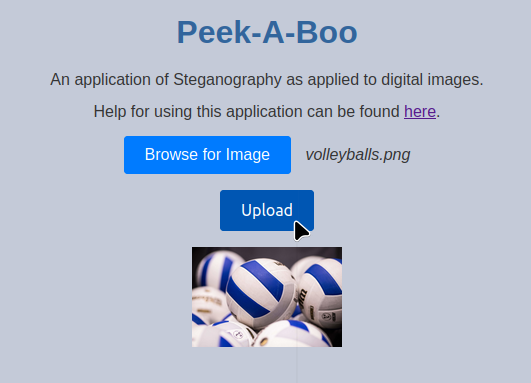
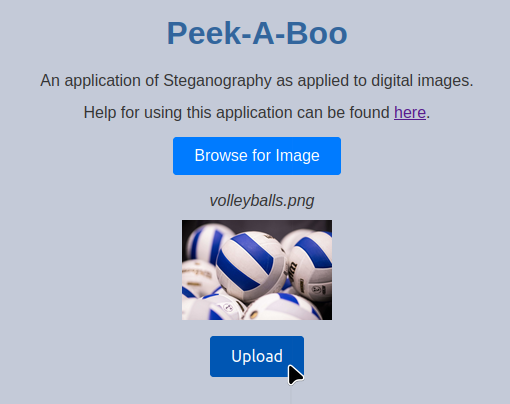
Added to help file. Done up to Uploading images.

Changed region(s): [[0.1471, 0.2585, 0.8529, 0.9478], [0.0882, 0.1723, 0.9412, 0.2298], [0.3235, 0.0574, 0.6765, 0.1149]]

diff --git a/static/peekaboo-help.html b/static/peekaboo-help.html
@@ -19,6 +19,8 @@
          <a href="#Introduction">Introduction</a>
          <a href="#Overview">Overview</a>
          <a href="#Uploading">Uploading</a>
+         <a href="#Uncoded Images"> - Uncoded Images</a>
+         <a href="#Coded Images"> - Coded Images</a>
          <a href="#Embedding">Embedding</a>
          <a href="#Extracting">Extracting</a>
          <a href="#About">About</a>
@@ -74,7 +76,7 @@
          the <i><b>"Browse for Image"</i></b> button.
          Note that any time that the "Browse for Image" button is displayed, it can be selected
          to reset the application to starting conditions, i.e. it can be used to abort
-         in-progress embed or extract work-flows. Note that it makes no difference if embedding
+         in-progress embed or extract workflows. Note that it makes no difference if embedding
          files into an already encodded image or one that has never been encoded.
          </p>
          <p class="images">
@@ -82,14 +84,68 @@
          </p>
          <p>On browsing to a vaid image file as described above, an <i><b>"Upload"</b></i> button
          will be presented to upload the image for analysis as illustrated below.
-         In the figure the name of the image file is shown alongside the <i><b>"Browse for Image"</b></i>
-         button, while a thumbnail of the image selected is shown below the
-         <i><b>"Upload"</b></i> button.
+         In the figure a thumbnail of the image selected is shown above the
+         <i><b>"Upload"</b></i> button along with the name of the file.
+         Note that <i>clicking</i> on the browsed image will open the image in a new browser window.
          </p>
          <p class="images">
             <img src="/static/help-pics/uploadControl.png" alt="Upload image for analysis.">
          </p>
-   
+         <p>Should other than a PNG file be selected a dialog will prompt the user to select
+         a PNG file and return so that the <i><b>"Browse for Image"</i></b> workflow can be
+         resumed.
+         </p>
+         <p>With the starting PNG image browsed to, the user can select the <i><b>"Upload"</b></i> button.
+         The <i><b>"Upload"</b></i> button uploads the image to the application where the image
+         analysed. Analysed here means determining if the image file is already embedded with
+         data, or is not know to be coded. The outcome of the analysis determines whether
+         embedding and/or extraction workflows can be performed.
+         </p>
+
+         <a id="Uncoded Images"></a>
+         <h3>Uncoded Images</h3>
+         <p>As the name suggests an uncoded image is a PNG image file that has not been coded
+         by the application, that is, it does not contain files that can be extracted.
+         Browsing to, and then uploading an uncoded image file will result in analysis showing that the
+         image is suitable to have files embeded into it as illustrated below.
+         </p>
+         <p class="images">
+            <img src="/static/help-pics/uncodedImage.png" alt="Uploaded image is uncoded.">
+         </p>
+         <p>In the example above of uploading an uncoded image we see a number of things, namely:
+            <ul>
+               <li>The image file is not coded.</li>
+               <li>As a result, the image file is not password protected.</li>
+               <li>The embedding capacity of the file is some 45+ MB.</li>
+            </ul>
+         </p>
+         <p>Being uncoded, it means that the image is suitable for embedding, hence only the
+         <i><b>"Embed"</b></i> button is available. Note also, the grey border around the analysis
+         results data indicating that the uploaded image is not coded.
+         </p>
+
+         <a id="Coded Images"></a>
+         <h3>Coded Images</h3>
+         <p>As the name suggests an coded image is a PNG image file that has been coded
+         by the application, that is, it ontains one or more files that can be extracted.
+         Browsing to, and then uploading a coded image file will result in analysis showing that the
+         image both contains data for extraction and is suitable to have files embeded into it as illustrated below.
+         </p>
+         <p class="images">
+            <img src="/static/help-pics/codedImage.png" alt="Uploaded image is coded.">
+         </p>
+         <p>In the example above of uploading a coded image we see a number of things, namely:
+            <ul>
+               <li>The image file is coded.</li>
+               <li>The image file in this case is password protected. Note that it needn't be.</li>
+               <li>The embedding capacity of the file is some 13+ MB.</li>
+            </ul>
+         </p>
+         <p>Being coded, it means that the image currently has embedded data, and is also suitable for embedding,
+         hence both the <i><b>"Embed"</b></i> and <i><b>"Extract"</b></i> buttons are available.
+         Note also, the green border around the analysis results data indicating that the uploaded image is coded.
+         </p>
+
          <a id="Embedding"></a>
          <h2>Embedding</h2>
          <p>While the file to host the embedded data is constrained to be a PNG image file,
@@ -103,7 +159,7 @@
          capacity of the image is:
          </p>
          <p class="eq">
-         (600 x 400)pixels x 3 colours/pixel x 1 byte/colour = 720,000 bytes
+         (600 x 400) pixels x 3 colours/pixel x 1 byte/colour = 720,000 bytes
          </p>
          <p>The embedding capacity will be less than that quoted above as some of the capacity
          is used up to store details of the embedded files, e.g. number of files, size of

diff --git a/static/index.html b/static/index.html
@@ -21,25 +21,20 @@
         <p style="text-align:center;">
             <label for="imageUpload" class="custom-upload">Browse for Image</label>
             <input type="file" id="imageUpload" accept="image/png" style="display: none;">
-            <span id="fileLabel"></span>
         </p>
-        <p class="button-group" style="text-align:center;">
+
+        <div id="thumbnailContainer" class="thumbnail-container" style="text-align:center;">
+            <img id="originalThumbnail" class="thumbnail" src="" alt="Browsed image thumbnail will appear here" style="display:none;">
+            <span id="fileLabel"></span>
+        </div>
+
+        </p>
+            <p class="button-group" style="text-align:center;">
             <button id="uploadButton" class="custom-upload" style="display: none;">Upload</button>
             <button id="embedButton" class="custom-upload" style="display: none;">Embed</button>
             <button id="extractButton" class="custom-upload" style="display: none;">Extract</button>
         </p>
     </div>
-
-    <p style="text-align:center;">
-        <img id="thumbnail" class="thumbnail" src="" alt="Browsed image thumbnail will appear here" style="display:none;">
-    </p>
-
-    <p style="text-align:center;">
-        <!-- Thumbnail Container -->
-        <div id="thumbnailContainer" class="thumbnail-container">
-            <img id="originalThumbnail" class="thumbnail" src="" alt="Browsed image thumbnail will appear here" style="display:none;">
-        </div>
-    </p>        
 
     <!-- Results Box for extracted files or processing results -->
     <div class="results-container">

diff --git a/static/index-scripts.js b/static/index-scripts.js
@@ -98,10 +98,17 @@ document.getElementById('imageUpload').addEventListener('change', function(event
                 uploadButton.style.display = 'block';
             }
             reader.readAsDataURL(file);
+
+            uploadButton.style.display = 'block';
+            fileLabel.textContent = file.name;
+            fileLabel.style.display = 'inline';
+            thumbnailContainer.style.display = 'block';
         } else {
             alert('Please select a PNG image.');
             console.log("Hiding upload button for invalid browsed image.");
             uploadButton.style.display = 'none';
+            fileLabel.style.display = 'none';
+            thumbnailContainer.style.display = 'none';
         }
     } else {
         fileLabel.textContent = 'No file selected';

diff --git a/static/index-styles.css b/static/index-styles.css
@@ -90,7 +90,7 @@ p {
 }
 
 .results-text.coded {
-    font-size: 0.8em;
+    font-size: 1.0em;
     font-style: italic;
     text-align: center;
     border: 4px solid rgb(0, 255, 0);
@@ -100,7 +100,7 @@ p {
 }
 
 .results-text.not-coded {
-    font-size: 0.8em;
+    font-size: 1.0em;
     font-style: italic;
     text-align: center;
     border: 2px solid rgb(99, 96, 96);

diff --git a/static/help-styles.css b/static/help-styles.css
@@ -123,7 +123,7 @@ h3 {
    max-width: 1000px;
    margin-top: 0.5em;
    margin-bottom: 0.5em;
-   font-size: 1.5em;
+   font-size: 1.2em;
    font-weight: bold;
 }
 
